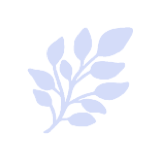
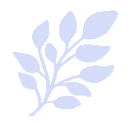
Add blog 'No 1-size fits everyone'

diff --git a/src/app/blog/_data.ts b/src/app/blog/_data.ts
@@ -64,11 +64,152 @@ const chelsea: Author = {
   name: "Chelsea",
   avatar: likerAvatar,
   bio: "Chelsea is a mental-health and life coach with 15+ years helping people make personal growth feel natural, sustainable, and kind.",
-  articles: 3,
+  articles: 4,
   followers: "",
 };
 
 export const blogPosts: BlogPost[] = [
+  {
+    slug: "no-one-size-fits-all-coaching",
+    title: 'Why There Is No "One-Size-Fits-All" Approach to Coaching',
+    excerpt:
+      "SMART goals, habit stacking, productivity systems—these frameworks can help, but they're tools, not rules. The best coaching adapts to the person in front of you.",
+    image:
+      "https://images.unsplash.com/photo-1447752875215-b2761acb3c5d?ixlib=rb-4.0.3&ixid=MnwxMjA3fDB8MHxwaG90by1wYWdlfHx8fGVufDB8fHx8&auto=format&fit=crop&w=560&q=80",
+    author: chelsea,
+    date: "Jul 6",
+    readTime: "6 min read",
+    tags: ["Coaching", "Mindset", "Growth", "Self-care"],
+    likes: 0,
+    comments: 0,
+    content: [
+      {
+        type: "lead",
+        text: "If you've ever searched for a life coach or a mental health coach, you've probably come across countless articles promoting the \"best\" framework for achieving your goals. Maybe you've heard of modalities called SMART goals, habit stacking, productivity systems, or other structured coaching models that promise measurable success.",
+      },
+      {
+        type: "image",
+        src: "https://images.unsplash.com/photo-1447752875215-b2761acb3c5d?ixlib=rb-4.0.3&ixid=MnwxMjA3fDB8MHxwaG90by1wYWdlfHx8fGVufDB8fHx8&auto=format&fit=crop&w=560&q=80",
+        alt: "Bridge in a Forest",
+      },
+      {
+        type: "paragraph",
+        text: "These approaches can be incredibly helpful. But they're exactly that—**approaches**. They aren't meant to be applied the same way to every person.",
+      },
+      {
+        type: "heading",
+        text: "Coaching Is About People, Not Formulas",
+      },
+      {
+        type: "paragraph",
+        text: "One of the biggest misconceptions about coaching is that every client should follow the same process: define a goal, break it into smaller steps, complete the action items, and measure progress.",
+      },
+      {
+        type: "paragraph",
+        text: "For some people, this structure creates clarity and momentum. For others, it can add pressure.",
+      },
+      {
+        type: "paragraph",
+        text: "Life isn't predictable, and personal growth rarely follows a straight line. Some weeks you're motivated and ready to take action. Other weeks you're navigating burnout, grief, health concerns, career uncertainty, or simply trying to keep up with daily life. A rigid coaching model doesn't always leave room for those realities.",
+      },
+      {
+        type: "heading",
+        text: "When Structure Becomes Pressure",
+      },
+      {
+        type: "paragraph",
+        text: "Structured frameworks can unintentionally place pressure on both the coach and the client.",
+      },
+      {
+        type: "paragraph",
+        text: "Clients may begin to believe they're only making progress if they're checking off action items or reaching milestones. When life gets in the way, it's easy to feel like they're falling behind.",
+      },
+      {
+        type: "paragraph",
+        text: "Coaches can feel pressure as well. If every session is expected to end with a measurable outcome, it can shift the focus from understanding the client's experience to producing visible progress.",
+      },
+      {
+        type: "quote",
+        text: "Sometimes the most valuable session is the one that uncovers *why* progress has felt so difficult in the first place.",
+      },
+      {
+        type: "heading",
+        text: "Understanding Comes Before Action",
+      },
+      {
+        type: "paragraph",
+        text: "Many people don't struggle because they lack motivation or discipline. More often, something quieter is going on:",
+      },
+      {
+        type: "list",
+        items: [
+          "They're mentally exhausted.",
+          "They're overwhelmed by competing responsibilities.",
+          "They're disconnected from what they actually need.",
+          "Or they've spent years trying to solve the wrong problem.",
+        ],
+      },
+      {
+        type: "paragraph",
+        text: "Before creating another action plan, it can be far more valuable to pause and ask: **What's really getting in the way?** That single question often leads to greater insight than immediately setting another goal.",
+      },
+      {
+        type: "heading",
+        text: "Progress Isn't Always Measured by Productivity",
+      },
+      {
+        type: "paragraph",
+        text: "We often associate growth with visible achievements: losing weight, getting promoted, building better habits, or crossing tasks off a list. But some of the most meaningful progress looks much quieter.",
+      },
+      {
+        type: "list",
+        items: [
+          "Learning to recognize your own needs.",
+          "Setting a healthy boundary without guilt.",
+          "Getting enough sleep consistently.",
+          "Preparing meals instead of skipping them.",
+          "Taking a walk after weeks of feeling stuck.",
+          "Trusting yourself enough to make a decision.",
+        ],
+      },
+      {
+        type: "paragraph",
+        text: "These moments may not look dramatic from the outside, but they're often the foundation that allows larger changes to happen.",
+      },
+      {
+        type: "heading",
+        text: "The Best Coaching Adapts to the Person",
+      },
+      {
+        type: "paragraph",
+        text: "Every client brings a unique story, personality, set of strengths, and life circumstances. That's why effective coaching isn't about following a script—it's about knowing when to provide structure and when to simply create space for reflection.",
+      },
+      {
+        type: "paragraph",
+        text: "Some sessions naturally lead to detailed action plans. Others are about gaining clarity, recognizing patterns, simplifying an overwhelming situation, or reconnecting with what truly matters. Neither approach is more valuable than the other. Both have a place.",
+      },
+      {
+        type: "heading",
+        text: "Frameworks Are Tools",
+      },
+      {
+        type: "paragraph",
+        text: "SMART goals and other coaching models have earned their place for a reason. They can provide direction, accountability, and a clear way to measure progress. The key is remembering that the framework should support the client—not define the coaching relationship.",
+      },
+      {
+        type: "paragraph",
+        text: "The most effective coaches don't rely on a single method. They draw from different approaches, remain flexible, and tailor each session to the individual sitting in front of them.",
+      },
+      {
+        type: "paragraph",
+        text: "Because lasting change doesn't happen when people are expected to fit into a predetermined system. It happens when they're given the space to better understand themselves, identify what they truly need, and build habits that fit their own lives.",
+      },
+      {
+        type: "paragraph",
+        text: "There is no universal formula for personal growth. And that's exactly what makes coaching so **personal**... and **important** for you.",
+      },
+    ],
+  },
   {
     slug: "ai-cannot-replace-humans",
     title: "Why AI Can't Replace Your Coach",
@@ -104,7 +245,7 @@ export const blogPosts: BlogPost[] = [
 
       {
         type: "heading",
-        text: "1. The Gift of Being Remembered",
+        text: "The Gift of Being Remembered",
       },
       {
         type: "paragraph",
@@ -116,7 +257,7 @@ export const blogPosts: BlogPost[] = [
       },
       {
         type: "heading",
-        text: '2. The Power of "In-Between" Communication',
+        text: 'The Power of "In-Between" Communication',
       },
       {
         type: "paragraph",
@@ -138,7 +279,7 @@ export const blogPosts: BlogPost[] = [
       },
       {
         type: "heading",
-        text: "3. Radical Accountability vs. Algorithmic Reminders",
+        text: "Accountability vs. Algorithmic Reminders",
       },
       {
         type: "paragraph",
@@ -150,7 +291,7 @@ export const blogPosts: BlogPost[] = [
       },
       {
         type: "heading",
-        text: "4. Empathy: A Foundation of Growth",
+        text: "Empathy: A Foundation of Growth",
       },
       {
         type: "paragraph",
@@ -162,7 +303,7 @@ export const blogPosts: BlogPost[] = [
       },
       {
         type: "heading",
-        text: "5. Safety and Professional Ethics",
+        text: "Safety & Professional Ethics",
       },
       {
         type: "paragraph",
@@ -183,6 +324,53 @@ export const blogPosts: BlogPost[] = [
       {
         type: "paragraph",
         text: "**You are not a data point.** You are a person with a story, and that story deserves to be heard by someone who can truly listen.",
+      },
+    ],
+  },
+  {
+    slug: "building-routines-that-last",
+    title: "Building Routines That Last",
+    excerpt:
+      "Routines fail when they fight your life. Here's how to build ones that fit your energy—steady, repeatable, and kind.",
+    image:
+      "https://images.unsplash.com/photo-1434030216411-0b793f4b4173?ixlib=rb-4.0.3&ixid=MnwxMjA3fDB8MHxwaG90by1wYWdlfHx8fGVufDB8fHx8&auto=format&fit=crop&w=560&q=80",
+    author: chelsea,
+    date: "Jan 4",
+    readTime: "7 min read",
+    tags: ["Routines", "Habits", "Consistency"],
+    likes: 531,
+    comments: 9,
+    content: [
+      {
+        type: "lead",
+        text: "Most routines don't fail because we lack discipline. They fail because they were designed for a version of us that doesn't exist—one with endless time, energy, and willpower.",
+      },
+      {
+        type: "paragraph",
+        text: "A routine that lasts is one that fits your actual life. It bends on hard days and holds on good ones. The goal isn't perfection; it's a rhythm you can return to.",
+      },
+      {
+        type: "heading",
+        text: "Anchor new habits to old ones",
+      },
+      {
+        type: "paragraph",
+        text: "The easiest way to build something new is to attach it to something you already do. After your morning coffee, take three deep breaths. After you close your laptop, write one line about your day.",
+      },
+      {
+        type: "image",
+        src: "https://images.unsplash.com/photo-1499209974431-9dddcece7f88?ixlib=rb-4.0.3&ixid=MnwxMjA3fDB8MHxwaG90by1wYWdlfHx8fGVufDB8fHx8&auto=format&fit=crop&w=560&q=80",
+        alt: "A calm morning workspace with a warm drink",
+        caption: "Small anchors turn intentions into rhythms.",
+      },
+      {
+        type: "quote",
+        text: "Keep what works. Review your wins, adjust gently, and protect your bandwidth.",
+        attribution: "The Steady Steps approach",
+      },
+      {
+        type: "paragraph",
+        text: "When you build routines that respect your energy, consistency stops being a battle. You're no longer forcing change—you're living it.",
       },
     ],
   },
@@ -233,53 +421,6 @@ export const blogPosts: BlogPost[] = [
       {
         type: "paragraph",
         text: "Boundaries take practice. Start small, notice how it feels, and adjust gently. Over time, protecting your bandwidth becomes second nature.",
-      },
-    ],
-  },
-  {
-    slug: "building-routines-that-last",
-    title: "Building Routines That Last",
-    excerpt:
-      "Routines fail when they fight your life. Here's how to build ones that fit your energy—steady, repeatable, and kind.",
-    image:
-      "https://images.unsplash.com/photo-1434030216411-0b793f4b4173?ixlib=rb-4.0.3&ixid=MnwxMjA3fDB8MHxwaG90by1wYWdlfHx8fGVufDB8fHx8&auto=format&fit=crop&w=560&q=80",
-    author: chelsea,
-    date: "Jan 4",
-    readTime: "7 min read",
-    tags: ["Routines", "Habits", "Consistency"],
-    likes: 531,
-    comments: 9,
-    content: [
-      {
-        type: "lead",
-        text: "Most routines don't fail because we lack discipline. They fail because they were designed for a version of us that doesn't exist—one with endless time, energy, and willpower.",
-      },
-      {
-        type: "paragraph",
-        text: "A routine that lasts is one that fits your actual life. It bends on hard days and holds on good ones. The goal isn't perfection; it's a rhythm you can return to.",
-      },
-      {
-        type: "heading",
-        text: "Anchor new habits to old ones",
-      },
-      {
-        type: "paragraph",
-        text: "The easiest way to build something new is to attach it to something you already do. After your morning coffee, take three deep breaths. After you close your laptop, write one line about your day.",
-      },
-      {
-        type: "image",
-        src: "https://images.unsplash.com/photo-1499209974431-9dddcece7f88?ixlib=rb-4.0.3&ixid=MnwxMjA3fDB8MHxwaG90by1wYWdlfHx8fGVufDB8fHx8&auto=format&fit=crop&w=560&q=80",
-        alt: "A calm morning workspace with a warm drink",
-        caption: "Small anchors turn intentions into rhythms.",
-      },
-      {
-        type: "quote",
-        text: "Keep what works. Review your wins, adjust gently, and protect your bandwidth.",
-        attribution: "The Steady Steps approach",
-      },
-      {
-        type: "paragraph",
-        text: "When you build routines that respect your energy, consistency stops being a battle. You're no longer forcing change—you're living it.",
       },
     ],
   },

diff --git a/src/app/blog/Article.tsx b/src/app/blog/Article.tsx
@@ -16,6 +16,7 @@ import {
 import ReactMarkdown, { type Components } from "react-markdown";
 import BlogHeader from "./Header";
 import { getPostBySlug, type ContentBlock } from "./_data";
+import leafImg from "../../imports/leaf.png";
 
 /**
  * Inline markdown elements styled to match the article. Shared across every
@@ -78,14 +79,21 @@ function Block({ block }: { block: ContentBlock }) {
     case "heading":
       return (
         <h3
-          className="text-foreground"
+          className="flex items-center gap-3 text-foreground"
           style={{
             fontFamily: "'Playfair Display', serif",
             fontSize: "clamp(1.4rem, 3vw, 1.8rem)",
             fontWeight: 500,
           }}
         >
-          {block.text}
+          <img
+            src={leafImg}
+            alt=""
+            aria-hidden="true"
+            className="shrink-0"
+            style={{ width: "1.4em", height: "auto" }}
+          />
+          <span>{block.text}</span>
         </h3>
       );
     case "image":

diff --git a/src/app/App.tsx b/src/app/App.tsx
@@ -7,6 +7,7 @@ import { motion } from "motion/react";
 import { ArrowRight, Menu, X, Quote, Leaf, Compass, Star, ChevronDown } from "lucide-react";
 import Contact from "./components/Contact";
 import { InsightsSection } from "./blog/List";
+import { blogPosts } from "./blog/_data";
 
 const HERO_IMAGE =
   "https://images.unsplash.com/photo-1623967680551-3e4694e2c9ad?w=1800&h=900&fit=crop&auto=format";
@@ -823,7 +824,7 @@ export default function App() {
 
         {/* ── Insights / Blog ── */}
         <section id="insights" aria-labelledby="insights-heading" className="bg-background">
-          <InsightsSection />
+          <InsightsSection posts={blogPosts.slice(0, 3)} />
           <div className="max-w-[1360px] mx-auto px-4 sm:px-6 lg:px-8 -mt-4 flex justify-end pb-8">
             <Link
               to="/blog"
